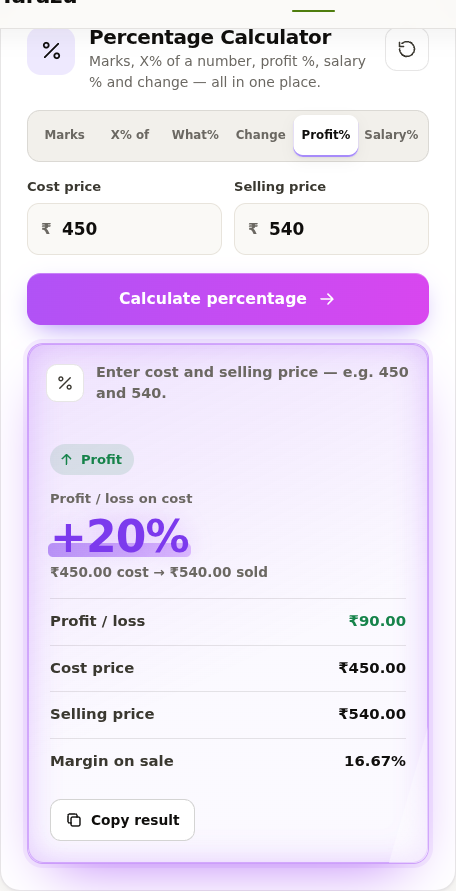
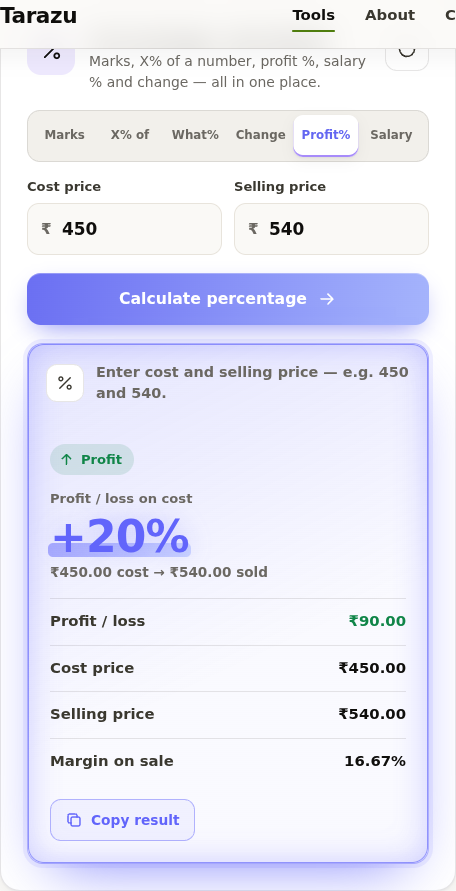
Differentiate tool colours and animations, clarify salary result

diff --git a/index.html b/index.html
@@ -529,40 +529,68 @@ html.theming,html.theming *,html.theming *::before,html.theming *::after{transit
 .result.show.calm .r-big::after{transition:none}
 
 
-/* ===================== Premium purple finish ===================== */
-:root{--purple:#8b5cf6;--purple-deep:#6d28d9;--purple-light:#c084fc;--purple-rgb:139,92,246}
+/* ===================== Premium per-tool finish ===================== */
+:root{--purple:#8b5cf6;--purple-deep:#6d28d9;--purple-light:#c084fc;--purple-rgb:139,92,246;
+  --tool:#8b5cf6;--tool-deep:#6d28d9;--tool-2:#c084fc;--tool-rgb:139,92,246;
+  --tool-anim:weightGlow;--tool-dur:3.6s;--btn-anim:btnShimmer;--btn-dur:3.8s}
 
-/* Primary + calculator buttons: purple, never lime or pink-only */
+/* Each calculator gets its own accent, button colour and signature motion */
+#t-weight{--tool:#8b5cf6;--tool-deep:#6d28d9;--tool-2:#c084fc;--tool-rgb:139,92,246;--tool-anim:weightGlow;--tool-dur:3.6s;--btn-anim:btnShimmer;--btn-dur:3.8s}
+#t-emi{--tool:#3b82f6;--tool-deep:#1d4ed8;--tool-2:#93c5fd;--tool-rgb:59,130,246;--tool-anim:emiGlow;--tool-dur:4.2s;--btn-anim:btnSweepBack;--btn-dur:3.2s}
+#t-sip{--tool:#06b6d4;--tool-deep:#0e7490;--tool-2:#67e8f9;--tool-rgb:6,182,212;--tool-anim:sipGlow;--tool-dur:2.9s;--btn-anim:btnSoftPulse;--btn-dur:2.6s}
+#t-pct{--tool:#6366f1;--tool-deep:#4338ca;--tool-2:#a5b4fc;--tool-rgb:99,102,241;--tool-anim:pctGlow;--tool-dur:3.2s;--btn-anim:btnDiagonal;--btn-dur:3.4s}
+#t-pl{--tool:#f59e0b;--tool-deep:#b45309;--tool-2:#fcd34d;--tool-rgb:245,158,11;--tool-anim:plGlow;--tool-dur:3.8s;--btn-anim:btnSlideSlow;--btn-dur:4.4s}
+
+/* Hero CTA stays brand purple */
 .btn-primary{background:linear-gradient(100deg,var(--purple-deep),var(--purple) 48%,var(--purple-light));color:#fff;box-shadow:inset 0 1px 0 rgba(255,255,255,.35),0 10px 28px -8px rgba(var(--purple-rgb),.75),0 0 0 1px rgba(192,132,252,.25)}
 .btn-primary::after{background:linear-gradient(110deg,transparent 35%,rgba(255,255,255,.7) 50%,transparent 65%)}
 @media(hover:hover){.btn-primary:hover{box-shadow:inset 0 1px 0 rgba(255,255,255,.4),0 16px 36px -8px rgba(var(--purple-rgb),.9),0 0 24px rgba(var(--purple-rgb),.35)}}
-.btn-calc{color:#fff;background-color:var(--purple-deep);background-image:linear-gradient(100deg,#6d28d9,#a855f7 45%,#d946ef);background-size:220% 100%;box-shadow:inset 0 1px 0 rgba(255,255,255,.28),0 10px 26px -10px rgba(var(--purple-rgb),.8)}
-[data-theme="dark"] .btn-calc{color:#fff;background-color:var(--purple-deep);background-image:linear-gradient(100deg,#6d28d9,#a855f7 45%,#d946ef)}
-@media(hover:hover){.btn-calc:hover{box-shadow:0 14px 34px -10px rgba(var(--purple-rgb),.95),0 0 0 4px rgba(168,85,247,.16),0 0 22px rgba(168,85,247,.35)}}
 
-/* Result panel: distinct purple glow + breathing animation */
-.result.show{border-color:rgba(168,85,247,.5)!important;background:linear-gradient(155deg,rgba(168,85,247,.14),transparent 60%),linear-gradient(0deg,rgba(139,92,246,.035),rgba(139,92,246,.035)),var(--card)!important;box-shadow:0 0 0 4px rgba(168,85,247,.1),0 24px 60px -26px rgba(168,85,247,.85),inset 0 0 34px rgba(168,85,247,.1)!important;animation:premiumGlow 3.6s ease-in-out infinite}
-.result.show::before{box-shadow:inset 0 0 0 1px rgba(192,132,252,.65),inset 0 0 30px rgba(168,85,247,.24)!important}
-@keyframes premiumGlow{0%,100%{box-shadow:0 0 0 4px rgba(168,85,247,.08),0 22px 52px -28px rgba(168,85,247,.65),inset 0 0 26px rgba(168,85,247,.08)}50%{box-shadow:0 0 0 5px rgba(168,85,247,.16),0 28px 72px -24px rgba(168,85,247,.95),inset 0 0 38px rgba(168,85,247,.2)}}
-.result.show .r-big{color:#7c3aed;text-shadow:0 0 24px rgba(168,85,247,.35)}
-[data-theme="dark"] .result.show .r-big{color:#e9d5ff}
-.result.show .ring .r-fill{stroke:#a855f7;filter:drop-shadow(0 0 7px rgba(168,85,247,.85))}
+/* Calculator buttons: different colour + different moving sheen per tool */
+.btn-calc{color:#fff;background-color:var(--tool-deep);background-image:linear-gradient(100deg,var(--tool-deep),var(--tool) 48%,var(--tool-2));background-size:220% 100%;box-shadow:inset 0 1px 0 rgba(255,255,255,.28),0 10px 26px -10px rgba(var(--tool-rgb),.8)}
+[data-theme="dark"] .btn-calc{color:#fff;background-color:var(--tool-deep);background-image:linear-gradient(100deg,var(--tool-deep),var(--tool) 48%,var(--tool-2))}
+.btn-calc::after{content:"";position:absolute;inset:-40% -70%;z-index:-1;pointer-events:none;background:linear-gradient(110deg,transparent 40%,rgba(255,255,255,.55) 50%,transparent 60%);animation:var(--btn-anim) var(--btn-dur) ease-in-out infinite}
+@keyframes btnShimmer{0%{transform:translateX(-120%)}50%,100%{transform:translateX(120%)}}
+@keyframes btnSweepBack{0%{transform:translateX(120%)}50%,100%{transform:translateX(-120%)}}
+@keyframes btnSoftPulse{0%,100%{opacity:0;transform:translateX(-90%) scaleY(.35)}50%{opacity:.9;transform:translateX(90%) scaleY(1.1)}}
+@keyframes btnDiagonal{0%{transform:translate(-120%,-60%) rotate(12deg)}50%,100%{transform:translate(120%,60%) rotate(12deg)}}
+@keyframes btnSlideSlow{0%{transform:translateX(-150%)}70%,100%{transform:translateX(150%)}}
+@media(hover:hover){.btn-calc:hover{box-shadow:0 14px 34px -10px rgba(var(--tool-rgb),.95),0 0 0 4px rgba(var(--tool-rgb),.16),0 0 22px rgba(var(--tool-rgb),.35)}}
+
+/* Selected tab + result panel follow the same tool colour */
+.tool .seg button[aria-checked="true"]{color:var(--tool)}
+.tool .r-body .btn-sm{color:var(--tool);border-color:rgba(var(--tool-rgb),.45);background:rgba(var(--tool-rgb),.06)}
+@media(hover:hover){.tool .r-body .btn-sm:hover{border-color:var(--tool);background:rgba(var(--tool-rgb),.12)}}
+.tool .r-body .btn-sm.done{background:var(--tool-deep);color:#fff;border-color:var(--tool)}
+.tool .ibtn:hover{color:var(--tool);border-color:rgba(var(--tool-rgb),.45)}
+.result.show{border-color:rgba(var(--tool-rgb),.5)!important;background:linear-gradient(155deg,rgba(var(--tool-rgb),.14),transparent 60%),linear-gradient(0deg,rgba(var(--tool-rgb),.035),rgba(var(--tool-rgb),.035)),var(--card)!important;box-shadow:0 0 0 4px rgba(var(--tool-rgb),.1),0 24px 60px -26px rgba(var(--tool-rgb),.85),inset 0 0 34px rgba(var(--tool-rgb),.1)!important;animation:var(--tool-anim) var(--tool-dur) ease-in-out infinite}
+.result.show::before{box-shadow:inset 0 0 0 1px rgba(var(--tool-rgb),.65),inset 0 0 30px rgba(var(--tool-rgb),.24)!important}
+
+/* Five deliberately different result animations */
+@keyframes weightGlow{0%,100%{box-shadow:0 0 0 4px rgba(var(--tool-rgb),.08),0 22px 52px -28px rgba(var(--tool-rgb),.65),inset 0 0 26px rgba(var(--tool-rgb),.08)}50%{box-shadow:0 0 0 5px rgba(var(--tool-rgb),.16),0 28px 72px -24px rgba(var(--tool-rgb),.95),inset 0 0 38px rgba(var(--tool-rgb),.2)}}
+@keyframes emiGlow{0%,100%{box-shadow:-8px 0 0 -3px rgba(var(--tool-rgb),.1),0 18px 44px -26px rgba(var(--tool-rgb),.6)}50%{box-shadow:8px 0 0 -3px rgba(var(--tool-rgb),.18),0 28px 64px -22px rgba(var(--tool-rgb),.9)}}
+@keyframes sipGlow{0%,100%{transform:translateY(0);box-shadow:0 0 0 3px rgba(var(--tool-rgb),.08),0 16px 40px -28px rgba(var(--tool-rgb),.6)}50%{transform:translateY(-3px);box-shadow:0 0 0 6px rgba(var(--tool-rgb),.16),0 30px 66px -22px rgba(var(--tool-rgb),.95)}}
+@keyframes pctGlow{0%,100%{filter:saturate(1);box-shadow:0 0 0 4px rgba(var(--tool-rgb),.08),0 20px 48px -28px rgba(var(--tool-rgb),.6)}50%{filter:saturate(1.3);box-shadow:0 0 0 5px rgba(var(--tool-rgb),.18),0 26px 70px -22px rgba(var(--tool-rgb),.95)}}
+@keyframes plGlow{0%,100%{box-shadow:0 0 0 2px rgba(var(--tool-rgb),.1),0 14px 36px -24px rgba(var(--tool-rgb),.55)}50%{box-shadow:0 0 0 7px rgba(var(--tool-rgb),.2),0 28px 68px -18px rgba(var(--tool-rgb),.95)}}
+
+.result.show .r-big{color:var(--tool);text-shadow:0 0 24px rgba(var(--tool-rgb),.35)}
+[data-theme="dark"] .result.show .r-big{color:var(--tool-2)}
+.result.show .ring .r-fill{stroke:var(--tool);filter:drop-shadow(0 0 7px rgba(var(--tool-rgb),.85))}
 .result.show .ring{animation:ringGlow 1.2s ease-out}
-@keyframes ringGlow{0%{filter:drop-shadow(0 0 0 rgba(168,85,247,0))}45%{filter:drop-shadow(0 0 16px rgba(168,85,247,.85))}100%{filter:drop-shadow(0 0 5px rgba(168,85,247,.4))}}
+@keyframes ringGlow{0%{filter:drop-shadow(0 0 0 rgba(var(--tool-rgb),0))}45%{filter:drop-shadow(0 0 16px rgba(var(--tool-rgb),.85))}100%{filter:drop-shadow(0 0 5px rgba(var(--tool-rgb),.4))}}
+.result.show .r-big::after{background:linear-gradient(90deg,var(--tool),var(--tool-2))!important}
 
-/* Typing route: a glowing purple streak runs from the amount field to the result/ring */
+/* Typing route also matches the active tool colour */
 .flow-overlay{position:absolute;inset:0;width:100%;height:100%;pointer-events:none;z-index:6;overflow:visible}
-.flow-line{fill:none;stroke:#a855f7;stroke-width:2.5;stroke-linecap:round;filter:drop-shadow(0 0 6px rgba(168,85,247,.95));opacity:.85}
-.flow-dot{fill:#fff;filter:drop-shadow(0 0 10px rgba(192,132,252,1)) drop-shadow(0 0 4px rgba(168,85,247,.9))}
+.flow-line{fill:none;stroke:var(--tool);stroke-width:2.5;stroke-linecap:round;filter:drop-shadow(0 0 6px rgba(var(--tool-rgb),.95));opacity:.85}
+.flow-dot{fill:#fff;filter:drop-shadow(0 0 10px rgba(var(--tool-rgb),1)) drop-shadow(0 0 4px rgba(var(--tool-rgb),.9))}
 
-/* Purple accents everywhere the result lives */
 .hero h1 .dot{color:#8b5cf6!important}
-.result.show .r-big::after{background:linear-gradient(90deg,#7c3aed,#c084fc)!important}
 
 /* Richer clipboard toast */
 .toast{display:flex;align-items:center;gap:10px;background:linear-gradient(100deg,var(--purple-deep),var(--purple) 60%,var(--purple-light));color:#fff;border:1px solid rgba(255,255,255,.2);box-shadow:0 16px 40px -12px rgba(var(--purple-rgb),.9),inset 0 1px 0 rgba(255,255,255,.28)}
 .toast-ico{width:26px;height:26px;flex:none;border-radius:50%;display:grid;place-items:center;background:rgba(255,255,255,.2);font-size:.9rem;font-weight:800;box-shadow:inset 0 0 0 1px rgba(255,255,255,.18)}
-@media(prefers-reduced-motion:reduce){.result.show,.result.show .ring{animation:none!important}.flow-overlay{display:none}}
+@media(prefers-reduced-motion:reduce){.result.show,.result.show .ring,.btn-calc::after{animation:none!important}.flow-overlay{display:none}}
 
 </style>
 </head>
@@ -627,7 +655,7 @@ html.theming,html.theming *,html.theming *::before,html.theming *::after{transit
 <section id="tools" class="sec" aria-labelledby="tools-h"><div class="wrap">
   <div class="sec-h reveal"><span class="eyebrow">Calculators</span><h2 id="tools-h">Every calculation, one tap away.</h2><p>The weight tool updates as you type. For the others, enter your values and press the button.</p></div>
   <div class="tools">
-<article class="tool tool-weight reveal" id="t-weight" data-tool="weight" style="--d:0s" aria-labelledby="h-weight"><header class="tool-h"><span class="tool-ico" aria-hidden="true"><svg class="i" viewBox="0 0 24 24" aria-hidden="true" focusable="false"><path d="M12 3v17M8 20h8M4 7h16"/><path d="M6 7l-3.2 7a3.2 3.2 0 0 0 6.4 0L6 7zM18 7l-3.2 7a3.2 3.2 0 0 0 6.4 0L6 7z"/></svg></span><div class="tool-t"><h3 id="h-weight">Weight Calculator</h3><p>Budget → grams, grams → price, or find the per-kg rate from any pack size. Live.</p></div><button type="button" class="ibtn" data-reset aria-label="Reset Weight Calculator" title="Reset"><svg class="i" viewBox="0 0 24 24" aria-hidden="true" focusable="false"><path d="M3 12a9 9 0 1 0 3-6.7"/><path d="M3 4v5h5"/></svg></button></header><div class="tool-body"><form class="form" novalidate><div class="seg" role="radiogroup" aria-label="Weight mode" data-key="mode"><button type="button" role="radio" aria-checked="false" data-val="toWeight">₹ → grams</button><button type="button" role="radio" aria-checked="false" data-val="toPrice">grams → ₹</button><button type="button" role="radio" aria-checked="false" data-val="toRate">₹/kg finder</button><span class="seg-ind" aria-hidden="true"></span></div><div class="row2"><div class="field" data-field="rate"><label for="w-rate"><span data-lbl>Price per kg</span></label><div class="ctrl has-pre has-suf"><span class="pre">₹</span><input id="w-rate" name="rate" type="number" inputmode="decimal" step="any" placeholder="0" autocomplete="off" aria-describedby="w-rate-err"><span class="suf">/ kg</span></div><p class="ferr" id="w-rate-err"></p></div><div class="field" data-field="amount"><label for="w-amount"><span data-lbl>Customer's budget</span></label><div class="ctrl has-pre"><span class="pre">₹</span><input id="w-amount" name="amount" type="number" inputmode="decimal" step="any" placeholder="0" autocomplete="off" aria-describedby="w-amount-err"><span class="suf" hidden></span></div><p class="ferr" id="w-amount-err"></p></div></div></form><div class="result"><div class="r-empty"><svg class="i" viewBox="0 0 24 24" aria-hidden="true" focusable="false"><path d="M12 3v17M8 20h8M4 7h16"/><path d="M6 7l-3.2 7a3.2 3.2 0 0 0 6.4 0L6 7zM18 7l-3.2 7a3.2 3.2 0 0 0 6.4 0L6 7z"/></svg><span>Enter the price per kg and the customer's budget. The weight appears here as you type.</span></div><div class="r-body" hidden></div><p class="r-sr sr-only" aria-live="polite"></p></div></div></article><article class="tool tool-emi reveal" id="t-emi" data-tool="emi" style="--d:0.08s" aria-labelledby="h-emi"><header class="tool-h"><span class="tool-ico" aria-hidden="true"><svg class="i" viewBox="0 0 24 24" aria-hidden="true" focusable="false"><rect x="2.5" y="5" width="19" height="14" rx="2.5"/><path d="M2.5 10h19M6.5 15h4"/></svg></span><div class="tool-t"><h3 id="h-emi">EMI Calculator</h3><p>Monthly instalment and total interest on a loan.</p></div><button type="button" class="ibtn" data-reset aria-label="Reset EMI Calculator" title="Reset"><svg class="i" viewBox="0 0 24 24" aria-hidden="true" focusable="false"><path d="M3 12a9 9 0 1 0 3-6.7"/><path d="M3 4v5h5"/></svg></button></header><div class="tool-body"><form class="form" novalidate><div class="field" data-field="principal"><label for="e-principal"><span data-lbl>Loan amount</span></label><div class="ctrl has-pre"><span class="pre">₹</span><input id="e-principal" name="principal" type="number" inputmode="decimal" step="any" placeholder="0" autocomplete="off" aria-describedby="e-principal-err"><span class="suf" hidden></span></div><p class="ferr" id="e-principal-err"></p></div><div class="row2"><div class="field" data-field="rate"><label for="e-rate"><span data-lbl>Interest rate</span></label><div class="ctrl has-suf"><span class="pre" hidden></span><input id="e-rate" name="rate" type="number" inputmode="decimal" step="any" placeholder="0" autocomplete="off" aria-describedby="e-rate-err"><span class="suf">% / yr</span></div><p class="ferr" id="e-rate-err"></p></div><div class="field" data-field="tenure"><label for="e-tenure"><span data-lbl>Tenure</span></label><div class="ctrl"><span class="pre" hidden></span><input id="e-tenure" name="tenure" type="number" inputmode="decimal" step="any" placeholder="0" autocomplete="off" aria-describedby="e-tenure-err"><span class="suf" hidden></span></div><p class="ferr" id="e-tenure-err"></p></div></div><div class="seg" role="radiogroup" aria-label="Tenure unit" data-key="unit"><button type="button" role="radio" aria-checked="false" data-val="m">Months</button><button type="button" role="radio" aria-checked="false" data-val="y">Years</button><span class="seg-ind" aria-hidden="true"></span></div><button type="submit" class="btn btn-calc" data-ripple><span class="lbl">Calculate EMI<svg class="i arw" viewBox="0 0 24 24" aria-hidden="true" focusable="false"><path d="M5 12h14M13 6l6 6-6 6"/></svg></span><span class="spin" aria-hidden="true"></span></button></form><div class="result"><div class="r-empty"><svg class="i" viewBox="0 0 24 24" aria-hidden="true" focusable="false"><rect x="2.5" y="5" width="19" height="14" rx="2.5"/><path d="M2.5 10h19M6.5 15h4"/></svg><span>Enter the amount, rate and tenure, then press the button.</span></div><div class="r-body" hidden></div><p class="r-sr sr-only" aria-live="polite"></p></div></div></article><article class="tool tool-sip reveal" id="t-sip" data-tool="sip" style="--d:0s" aria-labelledby="h-sip"><header class="tool-h"><span class="tool-ico" aria-hidden="true"><svg class="i" viewBox="0 0 24 24" aria-hidden="true" focusable="false"><path d="M3 17l6-6 4 4 8-8"/><path d="M15 7h6v6"/></svg></span><div class="tool-t"><h3 id="h-sip">SIP Calculator</h3><p>See how a monthly investment grows, year by year.</p></div><button type="button" class="ibtn" data-reset aria-label="Reset SIP Calculator" title="Reset"><svg class="i" viewBox="0 0 24 24" aria-hidden="true" focusable="false"><path d="M3 12a9 9 0 1 0 3-6.7"/><path d="M3 4v5h5"/></svg></button></header><div class="tool-body"><form class="form" novalidate><div class="field" data-field="monthly"><label for="s-monthly"><span data-lbl>Monthly amount</span></label><div class="ctrl has-pre"><span class="pre">₹</span><input id="s-monthly" name="monthly" type="number" inputmode="decimal" step="any" placeholder="0" autocomplete="off" aria-describedby="s-monthly-err"><span class="suf" hidden></span></div><p class="ferr" id="s-monthly-err"></p></div><div class="row2"><div class="field" data-field="rate"><label for="s-rate"><span data-lbl>Expected return</span></label><div class="ctrl has-suf"><span class="pre" hidden></span><input id="s-rate" name="rate" type="number" inputmode="decimal" step="any" placeholder="0" autocomplete="off" aria-describedby="s-rate-err"><span class="suf">% / yr</span></div><p class="ferr" id="s-rate-err"></p></div><div class="field" data-field="years"><label for="s-years"><span data-lbl>Duration</span></label><div class="ctrl has-suf"><span class="pre" hidden></span><input id="s-years" name="years" type="number" inputmode="decimal" step="any" placeholder="0" autocomplete="off" aria-describedby="s-years-err"><span class="suf">years</span></div><p class="ferr" id="s-years-err"></p></div></div><button type="submit" class="btn btn-calc" data-ripple><span class="lbl">See returns<svg class="i arw" viewBox="0 0 24 24" aria-hidden="true" focusable="false"><path d="M5 12h14M13 6l6 6-6 6"/></svg></span><span class="spin" aria-hidden="true"></span></button></form><div class="result"><div class="r-empty"><svg class="i" viewBox="0 0 24 24" aria-hidden="true" focusable="false"><path d="M3 17l6-6 4 4 8-8"/><path d="M15 7h6v6"/></svg><span>Enter the amount, return and duration, then press the button.</span></div><div class="r-body" hidden></div><p class="r-sr sr-only" aria-live="polite"></p></div></div></article><article class="tool tool-pct reveal" id="t-pct" data-tool="pct" style="--d:0.08s" aria-labelledby="h-pct"><header class="tool-h"><span class="tool-ico" aria-hidden="true"><svg class="i" viewBox="0 0 24 24" aria-hidden="true" focusable="false"><path d="M19 5L5 19"/><circle cx="6.5" cy="6.5" r="2.5"/><circle cx="17.5" cy="17.5" r="2.5"/></svg></span><div class="tool-t"><h3 id="h-pct">Percentage Calculator</h3><p>Marks, X% of a number, profit %, salary % and change — all in one place.</p></div><button type="button" class="ibtn" data-reset aria-label="Reset Percentage Calculator" title="Reset"><svg class="i" viewBox="0 0 24 24" aria-hidden="true" focusable="false"><path d="M3 12a9 9 0 1 0 3-6.7"/><path d="M3 4v5h5"/></svg></button></header><div class="tool-body"><form class="form" novalidate><div class="seg" role="radiogroup" aria-label="Percentage mode" data-key="mode"><button type="button" role="radio" aria-checked="false" data-val="marks">Marks</button><button type="button" role="radio" aria-checked="false" data-val="of">X% of</button><button type="button" role="radio" aria-checked="false" data-val="what">What%</button><button type="button" role="radio" aria-checked="false" data-val="change">Change</button><button type="button" role="radio" aria-checked="false" data-val="profit">Profit%</button><button type="button" role="radio" aria-checked="false" data-val="salary">Salary%</button><span class="seg-ind" aria-hidden="true"></span></div><div class="row2"><div class="field" data-field="a"><label for="p-a"><span data-lbl>Marks obtained</span></label><div class="ctrl"><span class="pre" hidden></span><input id="p-a" name="a" type="number" inputmode="decimal" step="any" placeholder="0" autocomplete="off" aria-describedby="p-a-err"><span class="suf" hidden></span></div><p class="ferr" id="p-a-err"></p></div><div class="field" data-field="b"><label for="p-b"><span data-lbl>Total marks</span></label><div class="ctrl"><span class="pre" hidden></span><input id="p-b" name="b" type="number" inputmode="decimal" step="any" placeholder="0" autocomplete="off" aria-describedby="p-b-err"><span class="suf" hidden></span></div><p class="ferr" id="p-b-err"></p></div></div><button type="submit" class="btn btn-calc" data-ripple><span class="lbl">Calculate percentage<svg class="i arw" viewBox="0 0 24 24" aria-hidden="true" focusable="false"><path d="M5 12h14M13 6l6 6-6 6"/></svg></span><span class="spin" aria-hidden="true"></span></button></form><div class="result"><div class="r-empty"><svg class="i" viewBox="0 0 24 24" aria-hidden="true" focusable="false"><path d="M19 5L5 19"/><circle cx="6.5" cy="6.5" r="2.5"/><circle cx="17.5" cy="17.5" r="2.5"/></svg><span>Enter your marks and press the button.</span></div><div class="r-body" hidden></div><p class="r-sr sr-only" aria-live="polite"></p></div></div></article><article class="tool tool-pl reveal" id="t-pl" data-tool="pl" style="--d:0.16s" aria-labelledby="h-pl"><header class="tool-h"><span class="tool-ico" aria-hidden="true"><svg class="i" viewBox="0 0 24 24" aria-hidden="true" focusable="false"><path d="M5 3h14v18l-3-2-2 2-2-2-2 2-2-2-3 2V3z"/><path d="M9 8h6M9 12h6M9 16h3"/></svg></span><div class="tool-t"><h3 id="h-pl">Profit &amp; Loss</h3><p>Profit, margin and markup from cost and selling price.</p></div><button type="button" class="ibtn" data-reset aria-label="Reset Profit &amp; Loss" title="Reset"><svg class="i" viewBox="0 0 24 24" aria-hidden="true" focusable="false"><path d="M3 12a9 9 0 1 0 3-6.7"/><path d="M3 4v5h5"/></svg></button></header><div class="tool-body"><form class="form" novalidate><div class="row2"><div class="field" data-field="cp"><label for="l-cp"><span data-lbl>Cost price</span></label><div class="ctrl has-pre"><span class="pre">₹</span><input id="l-cp" name="cp" type="number" inputmode="decimal" step="any" placeholder="0" autocomplete="off" aria-describedby="l-cp-err"><span class="suf" hidden></span></div><p class="ferr" id="l-cp-err"></p></div><div class="field" data-field="sp"><label for="l-sp"><span data-lbl>Selling price</span></label><div class="ctrl has-pre"><span class="pre">₹</span><input id="l-sp" name="sp" type="number" inputmode="decimal" step="any" placeholder="0" autocomplete="off" aria-describedby="l-sp-err"><span class="suf" hidden></span></div><p class="ferr" id="l-sp-err"></p></div></div><div class="field" data-field="qty"><label for="l-qty"><span data-lbl>Quantity</span><em>optional</em></label><div class="ctrl"><span class="pre" hidden></span><input id="l-qty" name="qty" type="number" inputmode="decimal" step="any" placeholder="0" autocomplete="off" aria-describedby="l-qty-err"><span class="suf" hidden></span></div><p class="ferr" id="l-qty-err"></p></div><button type="submit" class="btn btn-calc" data-ripple><span class="lbl">Check profit / loss<svg class="i arw" viewBox="0 0 24 24" aria-hidden="true" focusable="false"><path d="M5 12h14M13 6l6 6-6 6"/></svg></span><span class="spin" aria-hidden="true"></span></button></form><div class="result"><div class="r-empty"><svg class="i" viewBox="0 0 24 24" aria-hidden="true" focusable="false"><path d="M5 3h14v18l-3-2-2 2-2-2-2 2-2-2-3 2V3z"/><path d="M9 8h6M9 12h6M9 16h3"/></svg><span>Enter the cost and selling price, then press the button.</span></div><div class="r-body" hidden></div><p class="r-sr sr-only" aria-live="polite"></p></div></div></article>
+<article class="tool tool-weight reveal" id="t-weight" data-tool="weight" style="--d:0s" aria-labelledby="h-weight"><header class="tool-h"><span class="tool-ico" aria-hidden="true"><svg class="i" viewBox="0 0 24 24" aria-hidden="true" focusable="false"><path d="M12 3v17M8 20h8M4 7h16"/><path d="M6 7l-3.2 7a3.2 3.2 0 0 0 6.4 0L6 7zM18 7l-3.2 7a3.2 3.2 0 0 0 6.4 0L6 7z"/></svg></span><div class="tool-t"><h3 id="h-weight">Weight Calculator</h3><p>Budget → grams, grams → price, or find the per-kg rate from any pack size. Live.</p></div><button type="button" class="ibtn" data-reset aria-label="Reset Weight Calculator" title="Reset"><svg class="i" viewBox="0 0 24 24" aria-hidden="true" focusable="false"><path d="M3 12a9 9 0 1 0 3-6.7"/><path d="M3 4v5h5"/></svg></button></header><div class="tool-body"><form class="form" novalidate><div class="seg" role="radiogroup" aria-label="Weight mode" data-key="mode"><button type="button" role="radio" aria-checked="false" data-val="toWeight">₹ → grams</button><button type="button" role="radio" aria-checked="false" data-val="toPrice">grams → ₹</button><button type="button" role="radio" aria-checked="false" data-val="toRate">₹/kg finder</button><span class="seg-ind" aria-hidden="true"></span></div><div class="row2"><div class="field" data-field="rate"><label for="w-rate"><span data-lbl>Price per kg</span></label><div class="ctrl has-pre has-suf"><span class="pre">₹</span><input id="w-rate" name="rate" type="number" inputmode="decimal" step="any" placeholder="0" autocomplete="off" aria-describedby="w-rate-err"><span class="suf">/ kg</span></div><p class="ferr" id="w-rate-err"></p></div><div class="field" data-field="amount"><label for="w-amount"><span data-lbl>Customer's budget</span></label><div class="ctrl has-pre"><span class="pre">₹</span><input id="w-amount" name="amount" type="number" inputmode="decimal" step="any" placeholder="0" autocomplete="off" aria-describedby="w-amount-err"><span class="suf" hidden></span></div><p class="ferr" id="w-amount-err"></p></div></div></form><div class="result"><div class="r-empty"><svg class="i" viewBox="0 0 24 24" aria-hidden="true" focusable="false"><path d="M12 3v17M8 20h8M4 7h16"/><path d="M6 7l-3.2 7a3.2 3.2 0 0 0 6.4 0L6 7zM18 7l-3.2 7a3.2 3.2 0 0 0 6.4 0L6 7z"/></svg><span>Enter the price per kg and the customer's budget. The weight appears here as you type.</span></div><div class="r-body" hidden></div><p class="r-sr sr-only" aria-live="polite"></p></div></div></article><article class="tool tool-emi reveal" id="t-emi" data-tool="emi" style="--d:0.08s" aria-labelledby="h-emi"><header class="tool-h"><span class="tool-ico" aria-hidden="true"><svg class="i" viewBox="0 0 24 24" aria-hidden="true" focusable="false"><rect x="2.5" y="5" width="19" height="14" rx="2.5"/><path d="M2.5 10h19M6.5 15h4"/></svg></span><div class="tool-t"><h3 id="h-emi">EMI Calculator</h3><p>Monthly instalment and total interest on a loan.</p></div><button type="button" class="ibtn" data-reset aria-label="Reset EMI Calculator" title="Reset"><svg class="i" viewBox="0 0 24 24" aria-hidden="true" focusable="false"><path d="M3 12a9 9 0 1 0 3-6.7"/><path d="M3 4v5h5"/></svg></button></header><div class="tool-body"><form class="form" novalidate><div class="field" data-field="principal"><label for="e-principal"><span data-lbl>Loan amount</span></label><div class="ctrl has-pre"><span class="pre">₹</span><input id="e-principal" name="principal" type="number" inputmode="decimal" step="any" placeholder="0" autocomplete="off" aria-describedby="e-principal-err"><span class="suf" hidden></span></div><p class="ferr" id="e-principal-err"></p></div><div class="row2"><div class="field" data-field="rate"><label for="e-rate"><span data-lbl>Interest rate</span></label><div class="ctrl has-suf"><span class="pre" hidden></span><input id="e-rate" name="rate" type="number" inputmode="decimal" step="any" placeholder="0" autocomplete="off" aria-describedby="e-rate-err"><span class="suf">% / yr</span></div><p class="ferr" id="e-rate-err"></p></div><div class="field" data-field="tenure"><label for="e-tenure"><span data-lbl>Tenure</span></label><div class="ctrl"><span class="pre" hidden></span><input id="e-tenure" name="tenure" type="number" inputmode="decimal" step="any" placeholder="0" autocomplete="off" aria-describedby="e-tenure-err"><span class="suf" hidden></span></div><p class="ferr" id="e-tenure-err"></p></div></div><div class="seg" role="radiogroup" aria-label="Tenure unit" data-key="unit"><button type="button" role="radio" aria-checked="false" data-val="m">Months</button><button type="button" role="radio" aria-checked="false" data-val="y">Years</button><span class="seg-ind" aria-hidden="true"></span></div><button type="submit" class="btn btn-calc" data-ripple><span class="lbl">Calculate EMI<svg class="i arw" viewBox="0 0 24 24" aria-hidden="true" focusable="false"><path d="M5 12h14M13 6l6 6-6 6"/></svg></span><span class="spin" aria-hidden="true"></span></button></form><div class="result"><div class="r-empty"><svg class="i" viewBox="0 0 24 24" aria-hidden="true" focusable="false"><rect x="2.5" y="5" width="19" height="14" rx="2.5"/><path d="M2.5 10h19M6.5 15h4"/></svg><span>Enter the amount, rate and tenure, then press the button.</span></div><div class="r-body" hidden></div><p class="r-sr sr-only" aria-live="polite"></p></div></div></article><article class="tool tool-sip reveal" id="t-sip" data-tool="sip" style="--d:0s" aria-labelledby="h-sip"><header class="tool-h"><span class="tool-ico" aria-hidden="true"><svg class="i" viewBox="0 0 24 24" aria-hidden="true" focusable="false"><path d="M3 17l6-6 4 4 8-8"/><path d="M15 7h6v6"/></svg></span><div class="tool-t"><h3 id="h-sip">SIP Calculator</h3><p>See how a monthly investment grows, year by year.</p></div><button type="button" class="ibtn" data-reset aria-label="Reset SIP Calculator" title="Reset"><svg class="i" viewBox="0 0 24 24" aria-hidden="true" focusable="false"><path d="M3 12a9 9 0 1 0 3-6.7"/><path d="M3 4v5h5"/></svg></button></header><div class="tool-body"><form class="form" novalidate><div class="field" data-field="monthly"><label for="s-monthly"><span data-lbl>Monthly amount</span></label><div class="ctrl has-pre"><span class="pre">₹</span><input id="s-monthly" name="monthly" type="number" inputmode="decimal" step="any" placeholder="0" autocomplete="off" aria-describedby="s-monthly-err"><span class="suf" hidden></span></div><p class="ferr" id="s-monthly-err"></p></div><div class="row2"><div class="field" data-field="rate"><label for="s-rate"><span data-lbl>Expected return</span></label><div class="ctrl has-suf"><span class="pre" hidden></span><input id="s-rate" name="rate" type="number" inputmode="decimal" step="any" placeholder="0" autocomplete="off" aria-describedby="s-rate-err"><span class="suf">% / yr</span></div><p class="ferr" id="s-rate-err"></p></div><div class="field" data-field="years"><label for="s-years"><span data-lbl>Duration</span></label><div class="ctrl has-suf"><span class="pre" hidden></span><input id="s-years" name="years" type="number" inputmode="decimal" step="any" placeholder="0" autocomplete="off" aria-describedby="s-years-err"><span class="suf">years</span></div><p class="ferr" id="s-years-err"></p></div></div><button type="submit" class="btn btn-calc" data-ripple><span class="lbl">See returns<svg class="i arw" viewBox="0 0 24 24" aria-hidden="true" focusable="false"><path d="M5 12h14M13 6l6 6-6 6"/></svg></span><span class="spin" aria-hidden="true"></span></button></form><div class="result"><div class="r-empty"><svg class="i" viewBox="0 0 24 24" aria-hidden="true" focusable="false"><path d="M3 17l6-6 4 4 8-8"/><path d="M15 7h6v6"/></svg><span>Enter the amount, return and duration, then press the button.</span></div><div class="r-body" hidden></div><p class="r-sr sr-only" aria-live="polite"></p></div></div></article><article class="tool tool-pct reveal" id="t-pct" data-tool="pct" style="--d:0.08s" aria-labelledby="h-pct"><header class="tool-h"><span class="tool-ico" aria-hidden="true"><svg class="i" viewBox="0 0 24 24" aria-hidden="true" focusable="false"><path d="M19 5L5 19"/><circle cx="6.5" cy="6.5" r="2.5"/><circle cx="17.5" cy="17.5" r="2.5"/></svg></span><div class="tool-t"><h3 id="h-pct">Percentage Calculator</h3><p>Marks, X% of a number, profit %, salary % and change — all in one place.</p></div><button type="button" class="ibtn" data-reset aria-label="Reset Percentage Calculator" title="Reset"><svg class="i" viewBox="0 0 24 24" aria-hidden="true" focusable="false"><path d="M3 12a9 9 0 1 0 3-6.7"/><path d="M3 4v5h5"/></svg></button></header><div class="tool-body"><form class="form" novalidate><div class="seg" role="radiogroup" aria-label="Percentage mode" data-key="mode"><button type="button" role="radio" aria-checked="false" data-val="marks">Marks</button><button type="button" role="radio" aria-checked="false" data-val="of">X% of</button><button type="button" role="radio" aria-checked="false" data-val="what">What%</button><button type="button" role="radio" aria-checked="false" data-val="change">Change</button><button type="button" role="radio" aria-checked="false" data-val="profit">Profit%</button><button type="button" role="radio" aria-checked="false" data-val="salary">Salary</button><span class="seg-ind" aria-hidden="true"></span></div><div class="row2"><div class="field" data-field="a"><label for="p-a"><span data-lbl>Marks obtained</span></label><div class="ctrl"><span class="pre" hidden></span><input id="p-a" name="a" type="number" inputmode="decimal" step="any" placeholder="0" autocomplete="off" aria-describedby="p-a-err"><span class="suf" hidden></span></div><p class="ferr" id="p-a-err"></p></div><div class="field" data-field="b"><label for="p-b"><span data-lbl>Total marks</span></label><div class="ctrl"><span class="pre" hidden></span><input id="p-b" name="b" type="number" inputmode="decimal" step="any" placeholder="0" autocomplete="off" aria-describedby="p-b-err"><span class="suf" hidden></span></div><p class="ferr" id="p-b-err"></p></div></div><button type="submit" class="btn btn-calc" data-ripple><span class="lbl">Calculate percentage<svg class="i arw" viewBox="0 0 24 24" aria-hidden="true" focusable="false"><path d="M5 12h14M13 6l6 6-6 6"/></svg></span><span class="spin" aria-hidden="true"></span></button></form><div class="result"><div class="r-empty"><svg class="i" viewBox="0 0 24 24" aria-hidden="true" focusable="false"><path d="M19 5L5 19"/><circle cx="6.5" cy="6.5" r="2.5"/><circle cx="17.5" cy="17.5" r="2.5"/></svg><span>Enter your marks and press the button.</span></div><div class="r-body" hidden></div><p class="r-sr sr-only" aria-live="polite"></p></div></div></article><article class="tool tool-pl reveal" id="t-pl" data-tool="pl" style="--d:0.16s" aria-labelledby="h-pl"><header class="tool-h"><span class="tool-ico" aria-hidden="true"><svg class="i" viewBox="0 0 24 24" aria-hidden="true" focusable="false"><path d="M5 3h14v18l-3-2-2 2-2-2-2 2-2-2-3 2V3z"/><path d="M9 8h6M9 12h6M9 16h3"/></svg></span><div class="tool-t"><h3 id="h-pl">Profit &amp; Loss</h3><p>Profit, margin and markup from cost and selling price.</p></div><button type="button" class="ibtn" data-reset aria-label="Reset Profit &amp; Loss" title="Reset"><svg class="i" viewBox="0 0 24 24" aria-hidden="true" focusable="false"><path d="M3 12a9 9 0 1 0 3-6.7"/><path d="M3 4v5h5"/></svg></button></header><div class="tool-body"><form class="form" novalidate><div class="row2"><div class="field" data-field="cp"><label for="l-cp"><span data-lbl>Cost price</span></label><div class="ctrl has-pre"><span class="pre">₹</span><input id="l-cp" name="cp" type="number" inputmode="decimal" step="any" placeholder="0" autocomplete="off" aria-describedby="l-cp-err"><span class="suf" hidden></span></div><p class="ferr" id="l-cp-err"></p></div><div class="field" data-field="sp"><label for="l-sp"><span data-lbl>Selling price</span></label><div class="ctrl has-pre"><span class="pre">₹</span><input id="l-sp" name="sp" type="number" inputmode="decimal" step="any" placeholder="0" autocomplete="off" aria-describedby="l-sp-err"><span class="suf" hidden></span></div><p class="ferr" id="l-sp-err"></p></div></div><div class="field" data-field="qty"><label for="l-qty"><span data-lbl>Quantity</span><em>optional</em></label><div class="ctrl"><span class="pre" hidden></span><input id="l-qty" name="qty" type="number" inputmode="decimal" step="any" placeholder="0" autocomplete="off" aria-describedby="l-qty-err"><span class="suf" hidden></span></div><p class="ferr" id="l-qty-err"></p></div><button type="submit" class="btn btn-calc" data-ripple><span class="lbl">Check profit / loss<svg class="i arw" viewBox="0 0 24 24" aria-hidden="true" focusable="false"><path d="M5 12h14M13 6l6 6-6 6"/></svg></span><span class="spin" aria-hidden="true"></span></button></form><div class="result"><div class="r-empty"><svg class="i" viewBox="0 0 24 24" aria-hidden="true" focusable="false"><path d="M5 3h14v18l-3-2-2 2-2-2-2 2-2-2-3 2V3z"/><path d="M9 8h6M9 12h6M9 16h3"/></svg><span>Enter the cost and selling price, then press the button.</span></div><div class="r-body" hidden></div><p class="r-sr sr-only" aria-live="polite"></p></div></div></article>
   </div>
 </div></section>
 
@@ -1147,7 +1175,7 @@ window.TARAZU_ICONS = {"scale": "<svg class=\"i\" viewBox=\"0 0 24 24\" aria-hid
         what: { a: { label: "Part" }, b: { label: "Total" }, empty: "Enter the part and the total." },
         change: { a: { label: "Old value" }, b: { label: "New value" }, empty: "Enter the old and new values." },
         profit: { a: { label: "Cost price", pre: "₹" }, b: { label: "Selling price", pre: "₹" }, empty: "Enter cost and selling price — e.g. 450 and 540." },
-        salary: { a: { label: "Salary / amount", pre: "₹" }, b: { label: "Percent", suf: "%" }, empty: "Enter the salary and percent — e.g. 18000 and 8." }
+        salary: { a: { label: "Salary / amount", pre: "₹" }, b: { label: "Percent", suf: "%" }, empty: "Enter salary and percent — e.g. ₹18,000 at 8% gives ₹1,440." }
       },
       labels: function (t) {
         var m = this.modes[t.state.mode];
@@ -1188,14 +1216,15 @@ window.TARAZU_ICONS = {"scale": "<svg class=\"i\" viewBox=\"0 0 24 24\" aria-hid
             '</dl>';
           sr = (flat ? "No profit, no loss" : (up ? "Profit of " : "Loss of ") + F.pct2(Math.abs(o.percent)));
         } else {
-          h = '<div class="viz-top">' + ring(o.b, C.num(o.b, 0) + "%") + '<div class="viz-main"><div class="r-k">' + C.num(o.b, 2) + "% of " + F.inr0(o.a) + '</div><div class="r-big">' + V("a", o.result, "inr0") + '</div></div></div>' +
+          h = '<div class="viz-top">' + ring(o.b, C.num(o.b, 0) + "%") + '<div class="viz-main"><div class="r-k">' + C.num(o.b, 2) + "% salary of " + F.inr0(o.a) + '</div><div class="r-big">' + V("a", o.result, "inr0") + '</div><div class="r-sub">' + C.num(o.b, 2) + "% salary = " + F.inr0(o.result) + "</div></div></div>" +
             '<dl class="r-rows">' +
-              row("Salary / amount", F.inr0(o.a), 0) +
-              row("Percent", C.num(o.b, 2) + "%", 1) +
-              row("After deduction", F.inr2(o.after), 2) +
-              row("If added", F.inr2(o.with), 3) +
+              row(C.num(o.b, 2) + "% salary", V("a", o.result, "inr2"), 0, "pos") +
+              row("Salary", F.inr0(o.a), 1) +
+              row("Percent", C.num(o.b, 2) + "%", 2) +
+              row("After deduction", F.inr2(o.after), 3) +
+              row("If added", F.inr2(o.with), 4) +
             '</dl>';
-          sr = C.num(o.b, 2) + "% of " + F.inr0(o.a) + " is " + F.inr2(o.result);
+          sr = C.num(o.b, 2) + "% of salary " + F.inr0(o.a) + " is " + F.inr2(o.result);
         }
         return { key: "pct-" + o.mode, html: h + actions(), sr: sr };
       },
@@ -1206,7 +1235,7 @@ window.TARAZU_ICONS = {"scale": "<svg class=\"i\" viewBox=\"0 0 24 24\" aria-hid
         else if (o.mode === "what") L.push(C.num(o.a, 2) + " out of " + C.num(o.b, 2) + " = " + F.pct2(o.percent));
         else if (o.mode === "change") L.push(C.num(o.a, 2) + " \u2192 " + C.num(o.b, 2), "Change: " + (o.percent > 0 ? "+" : "") + F.pct2(o.percent), "Difference: " + F.n2(o.diff));
         else if (o.mode === "profit") L.push("Cost: " + F.inr2(o.a), "Sold: " + F.inr2(o.b), (o.state === "profit" ? "Profit" : o.state === "loss" ? "Loss" : "Break-even") + ": " + F.inr2(Math.abs(o.diff)), "Percent on cost: " + F.pct2(Math.abs(o.percent)));
-        else L.push("Salary: " + F.inr0(o.a), "Percent: " + C.num(o.b, 2) + "%", C.num(o.b, 2) + "% of salary: " + F.inr2(o.result), "After deduction: " + F.inr2(o.after));
+        else L.push("Salary: " + F.inr0(o.a), "Percent: " + C.num(o.b, 2) + "%", C.num(o.b, 2) + "% salary: " + F.inr2(o.result), "After deduction: " + F.inr2(o.after));
         return L.join("\n");
       }
     },

diff --git a/README.md b/README.md
@@ -47,7 +47,7 @@
     </td>
     <td align="center" width="50%">
       <img src="docs/screenshots/percentage-salary.png" alt="8 percent of salary example" width="100%"><br>
-      <em>₹18,000 salary × 8% = ₹1,440</em>
+      <em>8% of ₹18,000 salary = ₹1,440 salary</em>
     </td>
   </tr>
 </table>
@@ -74,7 +74,7 @@ Every mode also shows **₹/gram and ₹/kg**, updates while you type, validates
 
 - 💳 **EMI** — monthly instalment, total interest and total payable; months or years.
 - 📈 **SIP** — invested amount, estimated returns and year-by-year growth bars.
-- 📊 **Percentage** — 6 modes: marks → grade, X% of Y, "X is what % of Y", increase/decrease, **profit %** (₹450 → ₹540 = **20%**) and **salary %** (₹18,000 × 8% = **₹1,440**).
+- 📊 **Percentage** — 6 modes: marks → grade, X% of Y, "X is what % of Y", increase/decrease, **profit %** (₹450 → ₹540 = **20%**) and **salary %** (8% of ₹18,000 salary = **₹1,440 salary**).
 - 💰 **Profit & Loss** — net profit/loss, margin, markup, with optional quantity.
 
 ---
